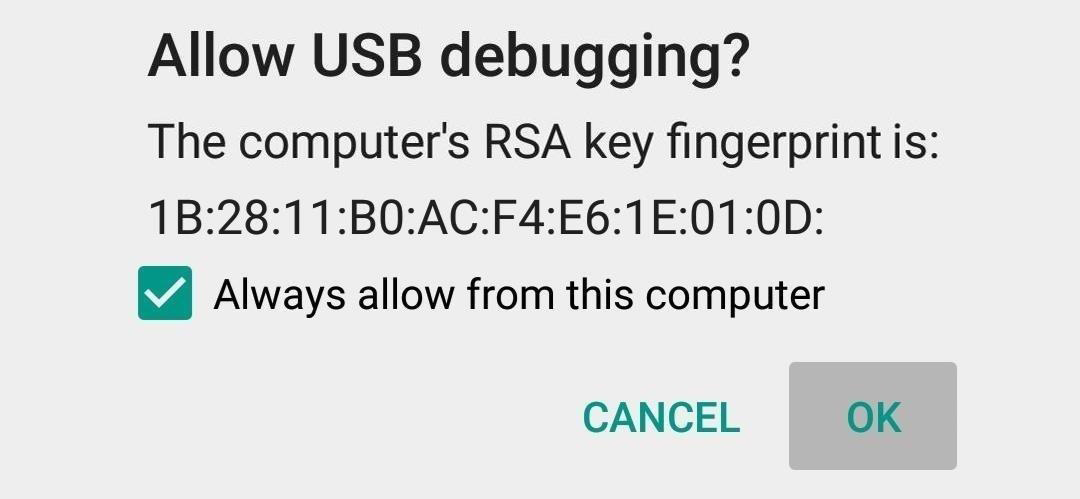
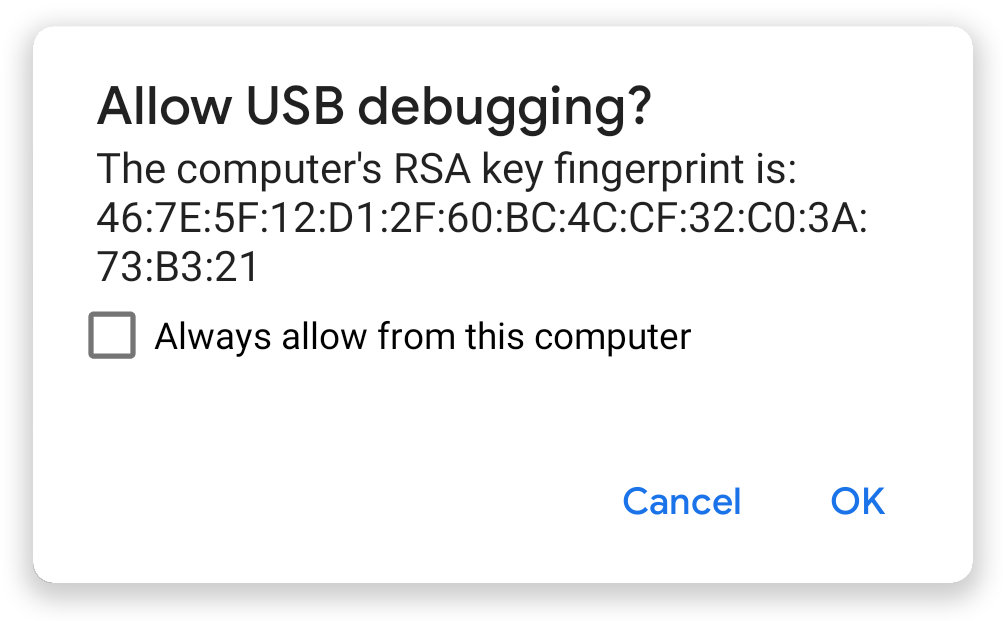
improved allow window +  refactoring

Changed region(s): [[0.0927, 0.0601, 0.8654, 0.6613], [0.0309, 0.7214, 0.9581, 0.9619], [0.0618, 0.511, 0.0927, 0.5711]]

diff --git a/FluidNGPermissionGranter/ConnectGuideWindow.xaml b/FluidNGPermissionGranter/ConnectGuideWindow.xaml
@@ -3,12 +3,10 @@
         xmlns:x="http://schemas.microsoft.com/winfx/2006/xaml"
         xmlns:d="http://schemas.microsoft.com/expression/blend/2008"
         xmlns:mc="http://schemas.openxmlformats.org/markup-compatibility/2006"
-        xmlns:local="clr-namespace:FluidNGPermissionGranter"
-        mc:Ignorable="d"
-        Title="ConnectGuide" Height="450" Width="483" ResizeMode="NoResize" SourceInitialized="Window_SourceInitialized">
+        mc:Ignorable="d" Height="450" Width="483" ResizeMode="NoResize" SourceInitialized="Window_SourceInitialized" WindowStartupLocation="CenterOwner" IsEnabled="False">
     <Grid>
         <Image HorizontalAlignment="Center" Height="326" VerticalAlignment="Top" Width="206" Source="Resources/connect.png"/>
-        <Label Content="      Connect you device and &#xA;make sure that ADB is enabled" HorizontalAlignment="Center"  VerticalAlignment="Bottom" FontSize="20" Margin="25"  />
+        <TextBlock Text="      Connect you device and &#xA;make sure that ADB is enabled" HorizontalAlignment="Center"  VerticalAlignment="Bottom" FontSize="20" Margin="25" IsEnabled="True" />
 
     </Grid>
 </Window>

diff --git a/FluidNGPermissionGranter/allowADBWindow.xaml b/FluidNGPermissionGranter/allowADBWindow.xaml
@@ -4,13 +4,13 @@
         xmlns:d="http://schemas.microsoft.com/expression/blend/2008"
         xmlns:mc="http://schemas.openxmlformats.org/markup-compatibility/2006"
         mc:Ignorable="d"
-        Height="309.554" Width="456" ResizeMode="NoResize" SourceInitialized="Window_SourceInitialized">
+        Height="385.971" Width="508.31" ResizeMode="NoResize" SourceInitialized="Window_SourceInitialized">
     <Grid>
         <Grid.RowDefinitions>
-            <RowDefinition Height="207"/>
+            <RowDefinition Height="287"/>
             <RowDefinition />
         </Grid.RowDefinitions>
-        <Image Grid.Row="0" Source="Resources/allow.png" Margin="10,10,10,0"/>
+        <Image Name="Image" Grid.Row="0" Source="Resources/allow.png" Margin="10,10,10,0"/>
         <Label Grid.Row="1" Content="If you have window like this on your device, &#xA;                        than press OK" HorizontalContentAlignment="Center" FontSize="18" />
     </Grid>
 </Window>

diff --git a/FluidNGPermissionGranter/MainWindow.xaml b/FluidNGPermissionGranter/MainWindow.xaml
@@ -4,7 +4,7 @@
         xmlns:d="http://schemas.microsoft.com/expression/blend/2008"
         xmlns:mc="http://schemas.openxmlformats.org/markup-compatibility/2006"
         mc:Ignorable="d"
-        Title="Fluid N.G. Permission Granter" Height="409" Width="330" Background="White" ResizeMode="NoResize" WindowStartupLocation="Manual" Closing="Window_Closing" SourceInitialized="Window_SourceInitialized">
+        Title="Fluid N.G. Permission Granter" Height="409" Width="330" Background="White" ResizeMode="CanMinimize" WindowStartupLocation="Manual" Closing="Window_Closing" SourceInitialized="Window_SourceInitialized">
     <Grid>
         <Grid Grid.Column="0" HorizontalAlignment="Center">
             

diff --git a/FluidNGPermissionGranter/DoneWindow.xaml b/FluidNGPermissionGranter/DoneWindow.xaml
@@ -3,7 +3,6 @@
         xmlns:x="http://schemas.microsoft.com/winfx/2006/xaml"
         xmlns:d="http://schemas.microsoft.com/expression/blend/2008"
         xmlns:mc="http://schemas.openxmlformats.org/markup-compatibility/2006"
-        xmlns:local="clr-namespace:FluidNGPermissionGranter"
         mc:Ignorable="d" Height="195.101" Width="400.586" ResizeMode="NoResize" Closing="Window_Closing" WindowStartupLocation="CenterOwner" SourceInitialized="Window_SourceInitialized">
     <Grid>
         <Image HorizontalAlignment="Left" Height="100" VerticalAlignment="Center" Width="100"  Source="Resources/fnglogo.png" Margin="10" />

diff --git a/FluidNGPermissionGranter/MainWindow.xaml.cs b/FluidNGPermissionGranter/MainWindow.xaml.cs
@@ -2,7 +2,6 @@
 using System.Diagnostics;
 using System.Linq;
 using System.Net;
-using System.Threading;
 using System.Windows;
 using System.Windows.Threading;
 using SharpAdbClient;
@@ -11,22 +10,23 @@ namespace FluidNGPermissionGranter
 {
     public partial class MainWindow
     {
+        //  things about ADB
         private readonly AdbServer server = new AdbServer();
         private readonly string adbPath;
-        private ADBGuide adbGuideWindow;
-        private AllowADBWindow allowADBWindow;
+        private DeviceMonitor monitor;  //  Device monitor. Its searching for device after creating 
+
+        private ADBGuide adbGuideWindow;    //  There you can find guide about activating ADB on phone
         private ConnectGuide connectWindow;
-        private DeviceMonitor monitor;
+        private AllowADBWindow allowADBWindow;
         private DoneWindow doneWindow;
 
-        public MainWindow()
+        public MainWindow() 
         {
             InitializeComponent();
-            adbPath = (System.IO.Directory.GetCurrentDirectory() + @"\adb\adb.exe"); // Getting path of ADB tools \
-            
+            adbPath = (System.IO.Directory.GetCurrentDirectory() + @"\adb\adb.exe"); // Getting path of ADB tools 
         }
 
-        // Closing adb server after closing program
+        // Stopping ADB server after closing program
         private void Window_Closing(object sender, System.ComponentModel.CancelEventArgs e)
         {
             StopApplication();
@@ -34,13 +34,15 @@ namespace FluidNGPermissionGranter
 
         public static void StopApplication()
         {
+            //  Trying to kill ADB Server process 
             try
             {
-                foreach (var proc in System.Diagnostics.Process.GetProcessesByName("adb"))
+                foreach (var proc in Process.GetProcessesByName("adb"))
                 {
                     proc.Kill();
                 }
             }
+            //  If can't => just closing app
             catch
             {
                 Environment.Exit(0);
@@ -48,7 +50,7 @@ namespace FluidNGPermissionGranter
             Environment.Exit(0);
         }
 
-        // Removing icon on the top of window 
+        // Removing icon on the top of the window 
         private void Window_SourceInitialized(object sender, EventArgs e)
         {
             IconHelper.RemoveIcon(this);
@@ -56,19 +58,21 @@ namespace FluidNGPermissionGranter
 
         #region Button actions 
 
+        //  The first button
         private void GuideButton_Click(object sender, RoutedEventArgs e)
         {
             adbGuideWindow = new ADBGuide { ShowInTaskbar = false, Owner = Application.Current.MainWindow };
             adbGuideWindow.ShowDialog();
         }
-
+        //  The second button
         private void GrantButton_Click(object sender, RoutedEventArgs e)
         {
             StartAdb(); //  Start ADB server
+            //  Trying to find device 
             try
             {
                 System.Collections.Generic.List<DeviceData> devices = AdbClient.Instance.GetDevices();  //  Getting list of connected devices
-                //  If device connected - just find it
+                //  If device connected - just connect it
                 if (devices != null && devices.Count != 0)
                 {
                     StartDeviceMonitor();
@@ -81,6 +85,7 @@ namespace FluidNGPermissionGranter
                     connectWindow.ShowDialog();
                 }
             }
+            //  If can't start Device monitor => show error message
             catch (Exception exception)
             {
                 MessageBoxResult result = MessageBox.Show("Some error detected. Please, send screenshot with this text to developer. Do you want to send now?: \n \n" + exception,"Error", MessageBoxButton.YesNo);
@@ -91,6 +96,7 @@ namespace FluidNGPermissionGranter
             }
         }
         #endregion
+
         private void StartAdb()
         {
             // Trying to start ADB server and find device 
@@ -104,8 +110,24 @@ namespace FluidNGPermissionGranter
             }
         }
 
+        //  This thing searching for device every time after started 
+        private void StartDeviceMonitor()
+        {
+            //  If device monitor is not started =>
+            if (monitor == null)
+            {
+                //  Starting device monitor here 
+
+                monitor = new DeviceMonitor(new AdbSocket(new IPEndPoint(IPAddress.Loopback, AdbClient.AdbServerPort)));
+                monitor.DeviceConnected += OnDeviceConnected;
+
+                monitor.Start();
+            }
+        }
+
         private static string SendToAdb(string command)
         {
+            //  Trying to send command to device via ADB
             try
             {
                 var device = AdbClient.Instance.GetDevices().First();
@@ -113,6 +135,7 @@ namespace FluidNGPermissionGranter
                 AdbClient.Instance.ExecuteRemoteCommand(command, device, receiver);
                 return receiver.ToString();
             }
+            // if can't => show error message and give a link to contact developer
             catch(Exception exception)
             {
                 MessageBoxResult result = MessageBox.Show("Can`t send command by ADB. Please check your connection and try again. Also, try to redo the second step. Moreover, you can ask for it to the developer: \n \n" + exception, "Error", MessageBoxButton.YesNo);
@@ -120,7 +143,7 @@ namespace FluidNGPermissionGranter
                 {
                     Process.Start("https://dubzer.github.io");
                 }
-                return "error";
+                return exception.ToString();
             }
         }
 
@@ -130,6 +153,7 @@ namespace FluidNGPermissionGranter
             //  If output is *nothing*, then it means that there is no any errors, and we can show Successful window
             if (output == "")
             {
+                //  Showing "done" window 
                 doneWindow = new DoneWindow() { Title = "", Owner = Application.Current.MainWindow };
                 doneWindow.ShowDialog();
                 //  Restarting Fluid Navigation Gestures app on device
@@ -138,33 +162,21 @@ namespace FluidNGPermissionGranter
             }
             else
             {
-                MessageBox.Show("Unexpected output: \n \n + output");
-            }
-        }
-        //  This thing searching for device every time after started 
-        private void StartDeviceMonitor()
-        {
-            //  If device monitor is not started =>
-            if (monitor == null)
-            {
-                //  Starting device monitor here 
-           
-                monitor = new DeviceMonitor(new AdbSocket(new IPEndPoint(IPAddress.Loopback, AdbClient.AdbServerPort)));
-                monitor.DeviceConnected += this.OnDeviceConnected;
-                
-                monitor.Start();
+                MessageBox.Show("Unexpected output: \n \n" + output);
             }
         }
         
-        //  What happens after device connected
+        //  What happens after ` connected
         private void OnDeviceConnected(object sender, DeviceDataEventArgs e)
         {
             Dispatcher.BeginInvoke(DispatcherPriority.Normal, new Action(() =>
             {
+                //  Closing connect help window if its opened 
                 if (connectWindow != null)
                 {
                     connectWindow.Close();
                     connectWindow = null;
+
                 }
 
                 switch (AdbClient.Instance.GetDevices().First().State)
@@ -181,26 +193,45 @@ namespace FluidNGPermissionGranter
                         }
                         break;
                     case DeviceState.Unauthorized:
-                        //Showing help window to authorize adb server 
+                        //Showing help window to authorize PC
                         allowADBWindow = new AllowADBWindow();
+
                         allowADBWindow.Show();
-                        while (allowADBWindow.IsLoaded == false) { }    //  Waiting for loading window 
-                        while (AdbClient.Instance.GetDevices().First().State != DeviceState.Online) { } //  Waiting to get Online phone 
-                        allowADBWindow.Close();
-                        GrantButton.IsEnabled = true;
-                        try
-                        {
-                            GrantPermission();
-                        }
-                        catch (Exception exception)
-                        {
-                            MessageBox.Show(exception.ToString());
-                            throw;
-                        }
+                        allowADBWindow.ContentRendered += AllowADBWindow_ContentRendered;
                         break;
                 }
             }));
         }
 
+        //  Shit, but without it not works =(
+        private void AllowADBWindow_ContentRendered(object sender, EventArgs e)
+        {
+            while (AdbClient.Instance.GetDevices().Any() && AdbClient.Instance.GetDevices().First().State == DeviceState.Unauthorized) { } //  Waiting to get Online phone 
+
+            if (!AdbClient.Instance.GetDevices().Any() || AdbClient.Instance.GetDevices().First().State == DeviceState.Offline || AdbClient.Instance.GetDevices().First().State == DeviceState.Unknown)
+            {
+                allowADBWindow.Close();
+                allowADBWindow = null;
+                connectWindow = null;
+                connectWindow = new ConnectGuide { Title = "", Owner = Application.Current.MainWindow };
+                connectWindow.ShowDialog();
+            }
+            else
+            {
+                allowADBWindow.Close();
+                GrantButton.IsEnabled = true;
+                try
+                {
+                    GrantPermission();
+                }
+                catch (Exception exception)
+                {
+                    MessageBox.Show(exception.ToString());
+                    throw;
+                }
+
+                allowADBWindow.ContentRendered -= AllowADBWindow_ContentRendered;
+            }
+        }
     }
 }

diff --git a/FluidNGPermissionGranter/ConnectGuideWindow.xaml.cs b/FluidNGPermissionGranter/ConnectGuideWindow.xaml.cs
@@ -1,23 +1,11 @@
-using System;
-using System.Collections.Generic;
-using System.Linq;
-using System.Text;
-using System.Threading.Tasks;
-using System.Windows;
-using System.Windows.Controls;
-using System.Windows.Data;
-using System.Windows.Documents;
-using System.Windows.Input;
-using System.Windows.Media;
-using System.Windows.Media.Imaging;
-using System.Windows.Shapes;
+using System.Windows;
 
 namespace FluidNGPermissionGranter
 {
     /// <summary>
     /// Логика взаимодействия для ConnectGuide.xaml
     /// </summary>
-    public partial class ConnectGuide : Window
+    public partial class ConnectGuide
     {
         public ConnectGuide()
         {

diff --git a/FluidNGPermissionGranter/DoneWindow.xaml.cs b/FluidNGPermissionGranter/DoneWindow.xaml.cs
@@ -1,22 +1,10 @@
 using System;
-using System.Collections.Generic;
-using System.Linq;
-using System.Runtime.InteropServices;
-using System.Text;
-using System.Threading.Tasks;
 using System.Windows;
-using System.Windows.Controls;
-using System.Windows.Data;
-using System.Windows.Documents;
-using System.Windows.Input;
-using System.Windows.Media;
-using System.Windows.Media.Imaging;
-using System.Windows.Shapes;
 
 namespace FluidNGPermissionGranter
 {
 
-    public partial class DoneWindow : Window
+    public partial class DoneWindow
     {
         public DoneWindow()
         {

diff --git a/FluidNGPermissionGranter/AllowADBWindow.xaml.cs b/FluidNGPermissionGranter/AllowADBWindow.xaml.cs
@@ -9,14 +9,9 @@ namespace FluidNGPermissionGranter
             InitializeComponent();
         }
 
-        private void Window_SourceInitialized(object sender, System.EventArgs e)
+        private void Window_SourceInitialized(object sender, EventArgs e)
         {
             IconHelper.RemoveIcon(this);
-        }
-
-        internal void SetPropertyThreadSafe(Func<object> p, object status)
-        {
-            throw new NotImplementedException();
         }
     }
 }
